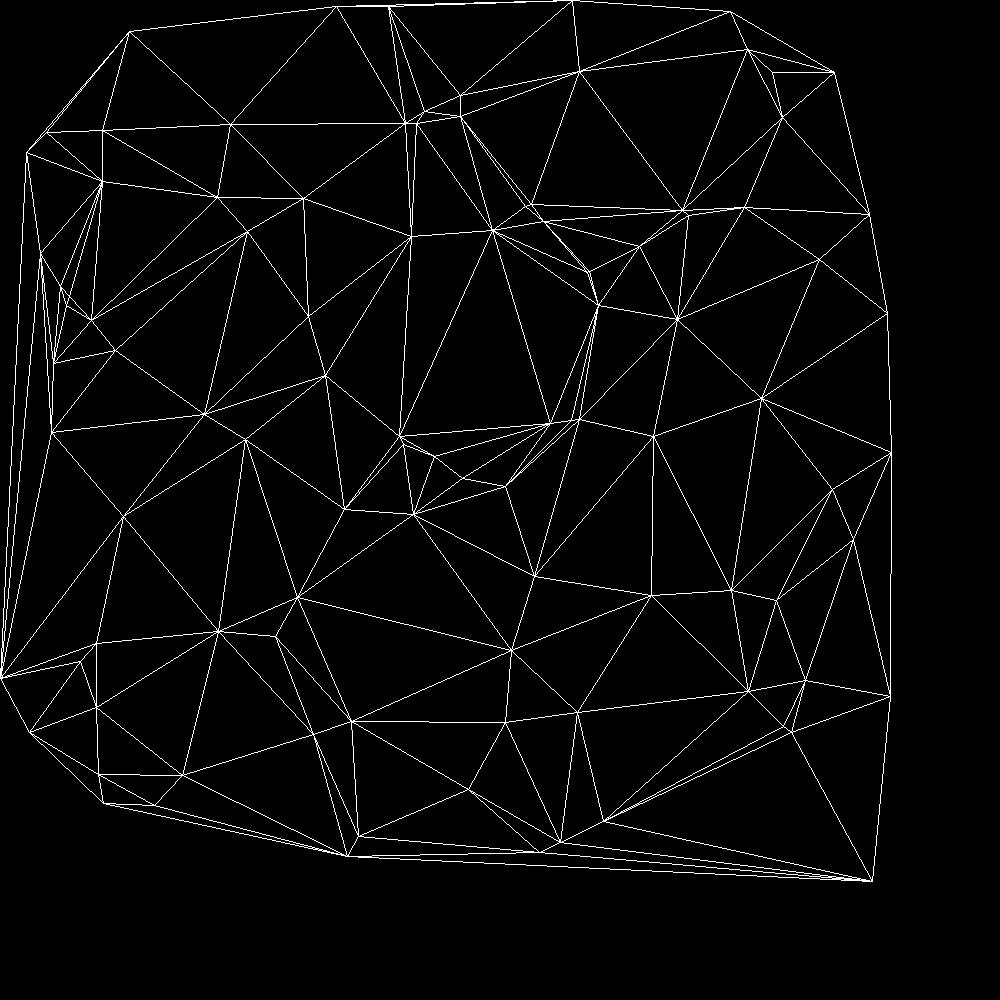
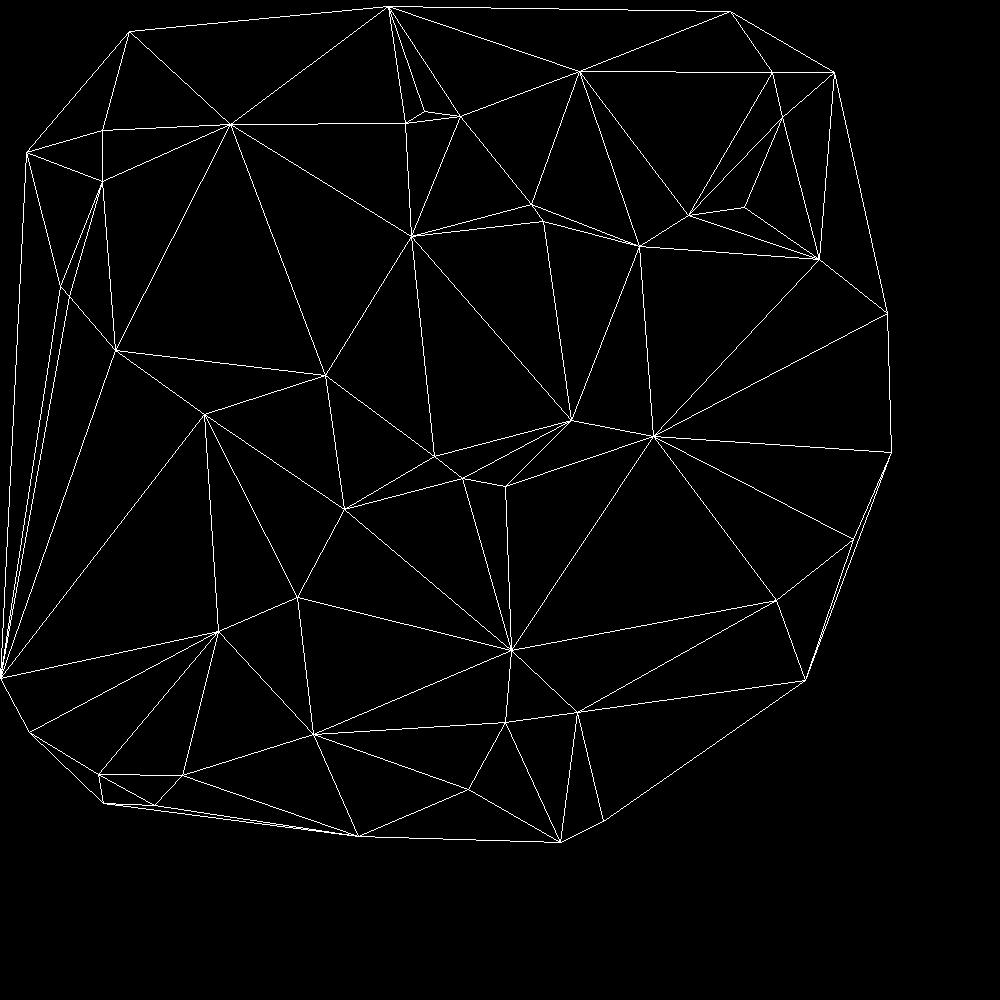
Dokumentaatiota ja testidataa lisätty

diff --git a/triangle-interpolator/src/main/java/geometry/Circle.java b/triangle-interpolator/src/main/java/geometry/Circle.java
@@ -5,8 +5,9 @@
  */
 package geometry;
 
-import java.util.ArrayList;
 import java.util.HashSet;
+import utils.MyArrayList;
+import utils.MyHashSet;
 
 /**
  * Used in Triangle to check if the triangle is a valid delaunay triangle
@@ -78,14 +79,15 @@ public class Circle {
      * @param listOfPoints list of points where to search
      * @return array of points found, in none found returns empty array
      */
-    public ArrayList<Point> findPointsInside(ArrayList<Point> listOfPoints) {
-        ArrayList<Point> output = new ArrayList<>();
+    public MyArrayList<Point> findPointsInside(MyArrayList<Point> listOfPoints) {
+        MyArrayList<Point> output = new MyArrayList<>();
 
         if (listOfPoints == null || listOfPoints.size() == 0) {
             return output;
         }
 
-        for (Point p : listOfPoints) {
+        for (int i=0;i<listOfPoints.size();i++) {
+            Point p = listOfPoints.get(i);
             if (this.isPointInside(p)) {
                 output.add(p);
             }
@@ -99,11 +101,11 @@ public class Circle {
      * results if given points are found
      *
      * @param listOfPoints list of points where to search
-     * @param listOfPointsToExclude list of points which to exclude from output
+     * @param setOfPointsToExclude list of points which to exclude from output
      * @return array of points found, in none found returns empty array
      */
-    public ArrayList<Point> findPointsInside(ArrayList<Point> listOfPoints, HashSet<Point> setOfPointsToExlude) {
-        ArrayList<Point> pointsInsideCircle = this.findPointsInside(listOfPoints);
+    public MyArrayList<Point> findPointsInside(MyArrayList<Point> listOfPoints, HashSet<Point> setOfPointsToExlude) {
+        MyArrayList<Point> pointsInsideCircle = this.findPointsInside(listOfPoints);
 
         if (setOfPointsToExlude == null || setOfPointsToExlude.size() == 0) {
             return pointsInsideCircle;
@@ -113,9 +115,10 @@ public class Circle {
             return pointsInsideCircle;
         }
 
-        ArrayList<Point> output = new ArrayList<>();
+        MyArrayList<Point> output = new MyArrayList<>();
 
-        for (Point p : pointsInsideCircle) {
+        for (int i=0;i<pointsInsideCircle.size();i++) {
+            Point p = pointsInsideCircle.get(i);
             if (!setOfPointsToExlude.contains(p)) {
                 output.add(p);
             }

diff --git a/triangle-interpolator/src/test/java/geometry/CircleTest.java b/triangle-interpolator/src/test/java/geometry/CircleTest.java
@@ -5,7 +5,7 @@
  */
 package geometry;
 
-import java.util.ArrayList;
+
 import java.util.HashSet;
 import org.junit.After;
 import org.junit.AfterClass;
@@ -13,6 +13,7 @@ import org.junit.Before;
 import org.junit.BeforeClass;
 import org.junit.Test;
 import static org.junit.Assert.*;
+import utils.MyArrayList;
 
 /**
  *
@@ -29,7 +30,7 @@ public class CircleTest {
     Circle c1;
     double radius;
 
-    ArrayList<Point> points;
+    MyArrayList<Point> points;
 
     public CircleTest() {
     }
@@ -53,7 +54,7 @@ public class CircleTest {
         radius = 10.0;
         c1 = new Circle(P1, radius);
 
-        points = new ArrayList<>();
+        points = new MyArrayList<>();
         points.add(P1);
         points.add(P2);
         points.add(P3);
@@ -123,13 +124,13 @@ public class CircleTest {
     public void testFindPointsInside() {
         Circle c2 = new Circle(P1, 5);
 
-        ArrayList<Point> result = c1.findPointsInside(points);
-        ArrayList<Point> result2 = c2.findPointsInside(points);
+        MyArrayList<Point> result = c1.findPointsInside(points);
+        MyArrayList<Point> result2 = c2.findPointsInside(points);
 
         assertEquals(4, result.size());
         assertEquals(2, result2.size());
         assertEquals(0, c1.findPointsInside(null).size());
-        assertEquals(0, c1.findPointsInside(new ArrayList<>()).size());
+        assertEquals(0, c1.findPointsInside(new MyArrayList<>()).size());
     }
 
     @Test
@@ -139,11 +140,11 @@ public class CircleTest {
         set.add(P2);
         set.add(P5);
 
-        ArrayList<Point> result = c1.findPointsInside(points, set);
-        ArrayList<Point> result2 = c1.findPointsInside(points, null);
-        ArrayList<Point> result3 = c1.findPointsInside(null, set);
-        ArrayList<Point> result4 = c1.findPointsInside(null, null);
-        ArrayList<Point> result5 = c1.findPointsInside(points, new HashSet<>());
+        MyArrayList<Point> result = c1.findPointsInside(points, set);
+        MyArrayList<Point> result2 = c1.findPointsInside(points, null);
+        MyArrayList<Point> result3 = c1.findPointsInside(null, set);
+        MyArrayList<Point> result4 = c1.findPointsInside(null, null);
+        MyArrayList<Point> result5 = c1.findPointsInside(points, new HashSet<>());
 
         assertEquals(2, result.size());
         assertEquals(4, result2.size());

diff --git a/triangle-interpolator/src/main/java/interpolate/Interpolator.java b/triangle-interpolator/src/main/java/interpolate/Interpolator.java
@@ -4,6 +4,7 @@ import geometry.Point;
 import geometry.Triangle;
 import java.util.ArrayList;
 import java.util.HashSet;
+import utils.MyArrayList;
 
 /**
  *
@@ -18,7 +19,7 @@ public class Interpolator {
      * @param listOfPoints list of points where to create Delaunay triangles
      * @return set of Delaunay triangles, null if there is none
      */
-    public static HashSet<Triangle> triangulate(ArrayList<Point> listOfPoints) {
+    public static HashSet<Triangle> triangulate(MyArrayList<Point> listOfPoints) {
         HashSet<Triangle> validTriangles = new HashSet<>();
 
         for (int i = 0; i < listOfPoints.size(); i++) {
@@ -50,7 +51,7 @@ public class Interpolator {
      * @param listOfPoints list of points from to interpolate values
      * @return matrix with interpolated values
      */
-    public static double[][] interpolateMatrix(int width, int height, ArrayList<Point> listOfPoints) {
+    public static double[][] interpolateMatrix(int width, int height, MyArrayList<Point> listOfPoints) {
         double[][] output = new double[height][width];
         HashSet<Triangle> validTriangles = new HashSet<>();
 
@@ -103,7 +104,7 @@ public class Interpolator {
      * @param p distance to the power of p, usually value between 1 and 2
      * @return matrix with interpolated values
      */
-    public static double[][] interpolateInverseDistance(int width, int height, ArrayList<Point> listOfPoints, double serachRadius, double p) {
+    public static double[][] interpolateInverseDistance(int width, int height, MyArrayList<Point> listOfPoints, double serachRadius, double p) {
         double[][] output = new double[height][width];
         for (int y = 0; y < height; y++) {
             for (int x = 0; x < width; x++) {
@@ -113,7 +114,8 @@ public class Interpolator {
                 double distances = 0;
 
                 boolean found = false;
-                for (Point point : listOfPoints) {
+                for (int i=0;i<listOfPoints.size();i++) {
+                    Point point = listOfPoints.get(i);
                     double dist = point.calculateDistance(currentPosition);
 
                     if (dist < 0.0001) {

diff --git a/triangle-interpolator/src/main/java/main/Main.java b/triangle-interpolator/src/main/java/main/Main.java
@@ -5,6 +5,8 @@ import geometry.Triangle;
 import static interpolate.Interpolator.*;
 import static io.Writer.*;
 import java.util.*;
+import utils.CsvParse;
+import utils.MyArrayList;
 
 /**
  *
@@ -14,16 +16,9 @@ public class Main {
 
     public static void main(String[] args) {
 
-        ArrayList<Point> list = new ArrayList<>();
-        Random rand = new Random(1337); //Random() only for testing 
+        CsvParse parser = new CsvParse("test_data.csv");
+        MyArrayList<Point> list = parser.parsePointsFromFile(";", "x", "y", "weight");
 
-        for (int i = 0; i < 100; i++) {
-            int x = rand.nextInt(900 + 1);
-            int y = rand.nextInt(900 + 1);
-            int value = rand.nextInt((255 - 100) + 1) + 100;
-            list.add(new Point(x, y, value));
-        }
-        
         System.out.println("Generating Delaunay triangles");
         HashSet<Triangle> t = triangulate(list);
         System.out.println("Interpolating with barycentric coordinates");

diff --git a/triangle-interpolator/src/main/java/geometry/Triangle.java b/triangle-interpolator/src/main/java/geometry/Triangle.java
@@ -1,7 +1,7 @@
 package geometry;
 
-import java.util.ArrayList;
 import java.util.HashSet;
+import utils.MyArrayList;
 
 /**
  * Represents a triangle in 2D plane
@@ -228,14 +228,14 @@ public class Triangle {
      *
      * @return true if triangle is a valid Delaunay triangle
      */
-    public boolean isValidDelaunay(ArrayList<Point> listOfPoints) {
+    public boolean isValidDelaunay(MyArrayList<Point> listOfPoints) {
         Circle circumcenter = this.getCircumcenterCircle();
 
         if (circumcenter == null) {
             return false;
         }
 
-        ArrayList<Point> pointsInsideCircle = circumcenter.findPointsInside(listOfPoints, setOfVertexes);
+        MyArrayList<Point> pointsInsideCircle = circumcenter.findPointsInside(listOfPoints, setOfVertexes);
 
         return pointsInsideCircle.size() == 0;
     }

diff --git a/triangle-interpolator/src/test/java/geometry/TriangleTest.java b/triangle-interpolator/src/test/java/geometry/TriangleTest.java
@@ -5,13 +5,12 @@ package geometry;
  * To change this template file, choose Tools | Templates
  * and open the template in the editor.
  */
-import java.util.ArrayList;
-import org.junit.After;
 import org.junit.AfterClass;
 import org.junit.Before;
 import org.junit.BeforeClass;
 import org.junit.Test;
 import static org.junit.Assert.*;
+import utils.MyArrayList;
 
 /**
  *
@@ -152,7 +151,7 @@ public class TriangleTest {
     public void testIsValidDelaunay() {
         Triangle t2 = new Triangle(P1, P1, P1);
 
-        ArrayList<Point> points = new ArrayList<>();
+        MyArrayList<Point> points = new MyArrayList<>();
         points.add(P1);
         points.add(P2);
         points.add(P3);
